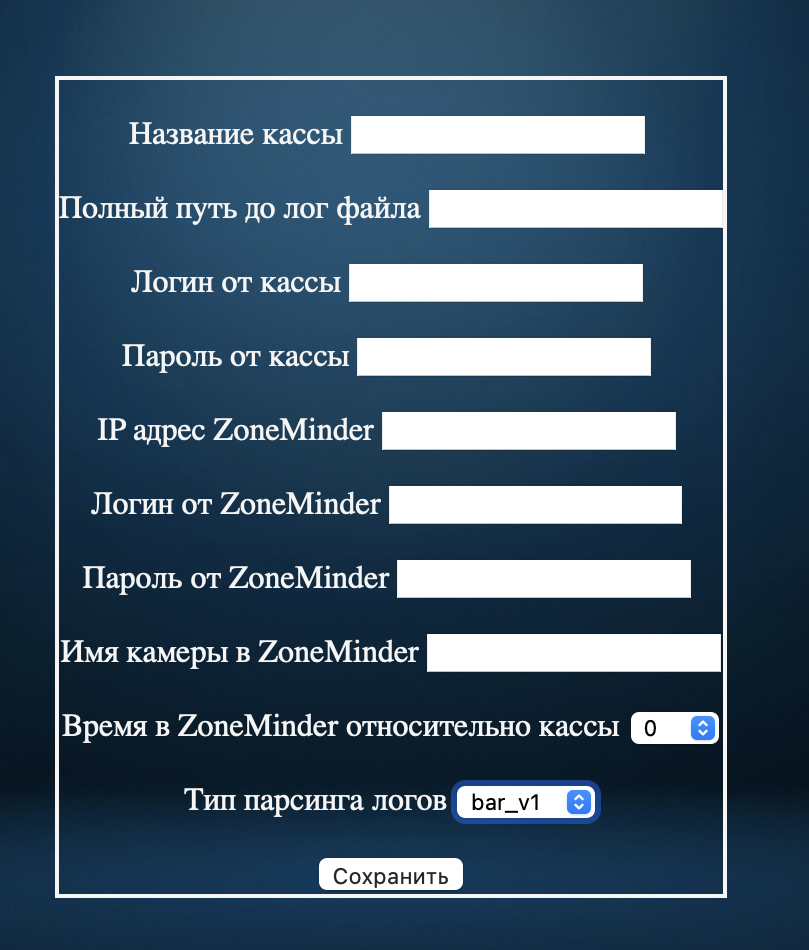
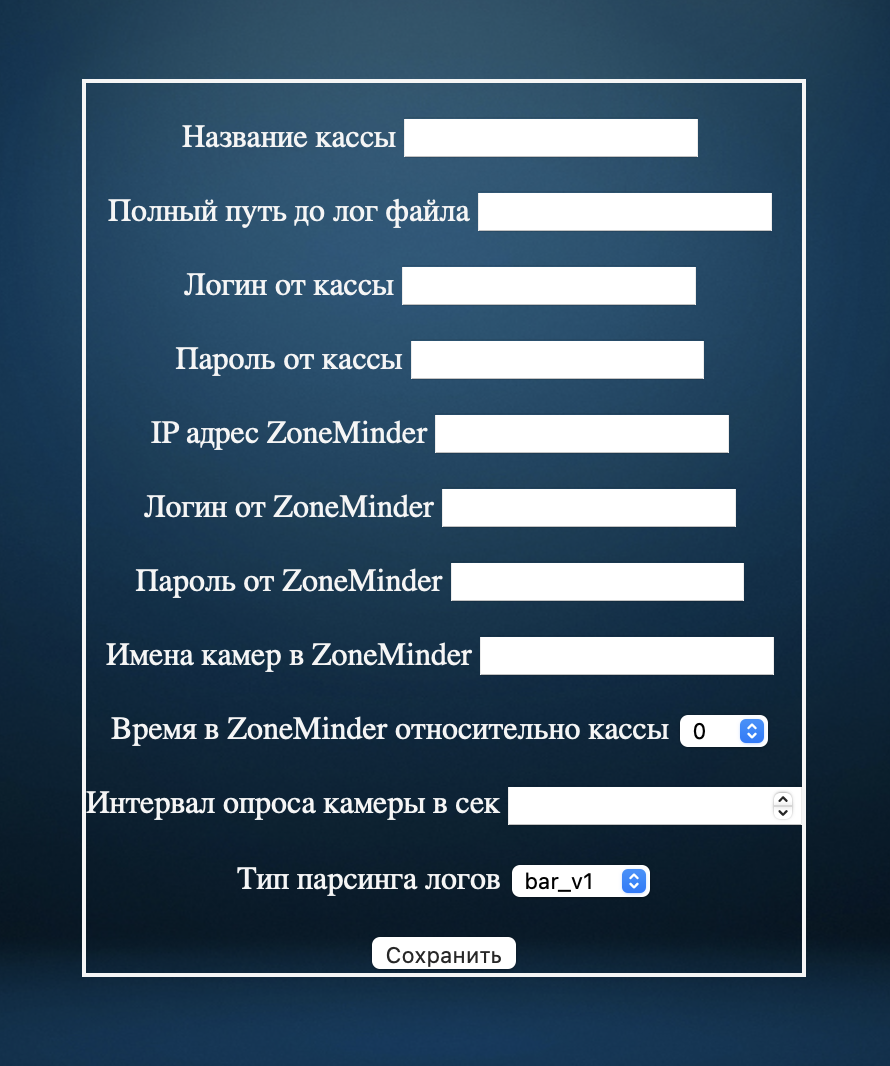
sync

Changed region(s): [[0.0, 0.0611, 1.0, 0.9463]]

diff --git a/user_manual.md b/user_manual.md
@@ -25,6 +25,7 @@
 * Пароль от ZoneMinder - пароль пользователя ZoneMinder
 * Имена камер в ZoneMinder - указать имя камеры в ZoneMinder или несколько имен разделяя запятой. Пример: *Camera_1, Camera_2, Camera_3*
 * Время в ZoneMinder относительно кассы - указать разницу во времени между ZoneMinder и кассой (необходимо, если касса и ZoneMinder находятся в разных часовых поясах)
+* Интервал опроса камеры в сек - указать временной интервал с какой переодичностью забирать логи с кассы (в секундах)
 * Тип парсинга логов - указать тип парсинга логов. (о типах парсинга см. [типы парсинга](parser.md))
 
 ### Меню "Управление кассой"

diff --git a/install_cerberus.md b/install_cerberus.md
@@ -44,7 +44,7 @@ db_name = cerberus
 Блок `[system]`
 * enable_log - по умолчанию true. Запись логов идет в файл. false - отключить логирование.
 * debug - по умолчанию false. Необходимо для отладки приложения. Только для опытных пользователей linux.
-* time_get_check - Интервал времени с какой регулярностью опрашивать касссу (в секундах)
+* time_get_check - Интервал времени с какой регулярностью опрашивать касссу (в секундах). С версии 1.6.19 не используется
 * time_search_video - Временной диапазон поиска видео. За сколько времени до пробития чека начинать искать видео (в секундах)
 
 Блок `[DB]`
